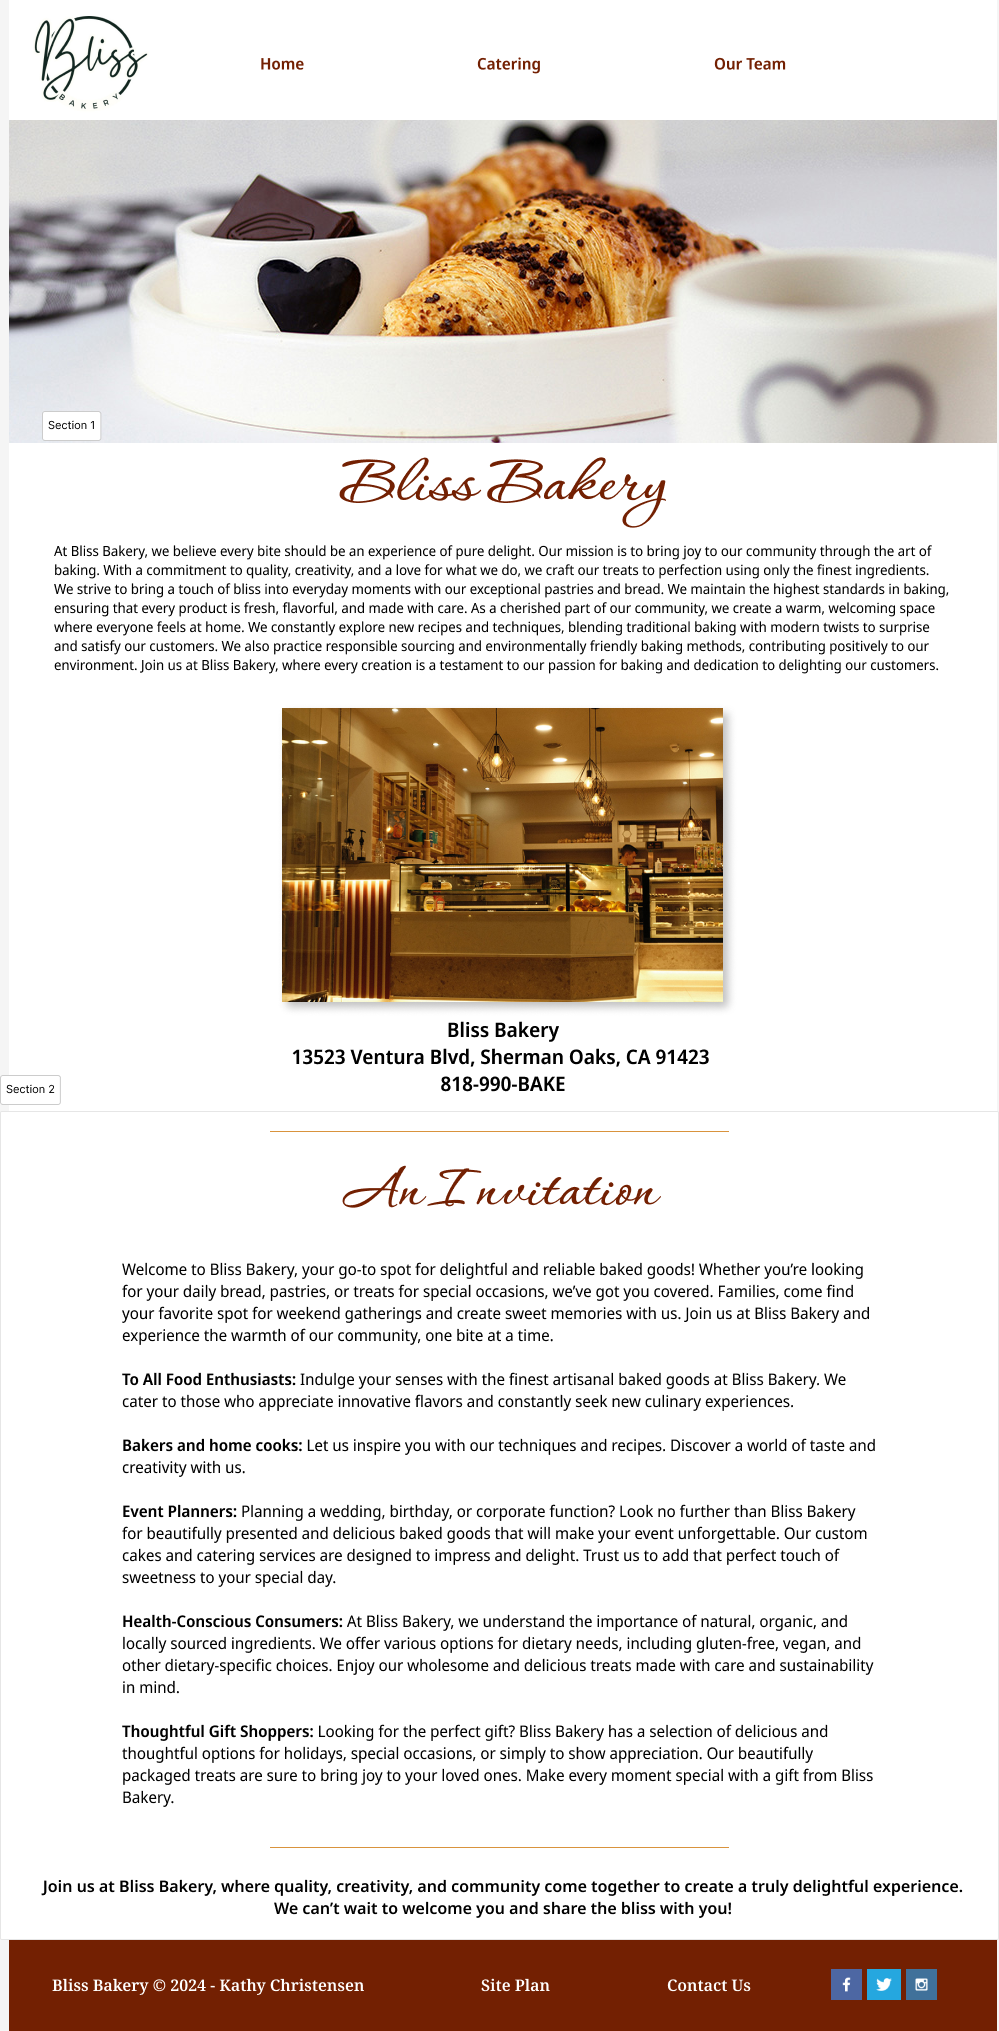
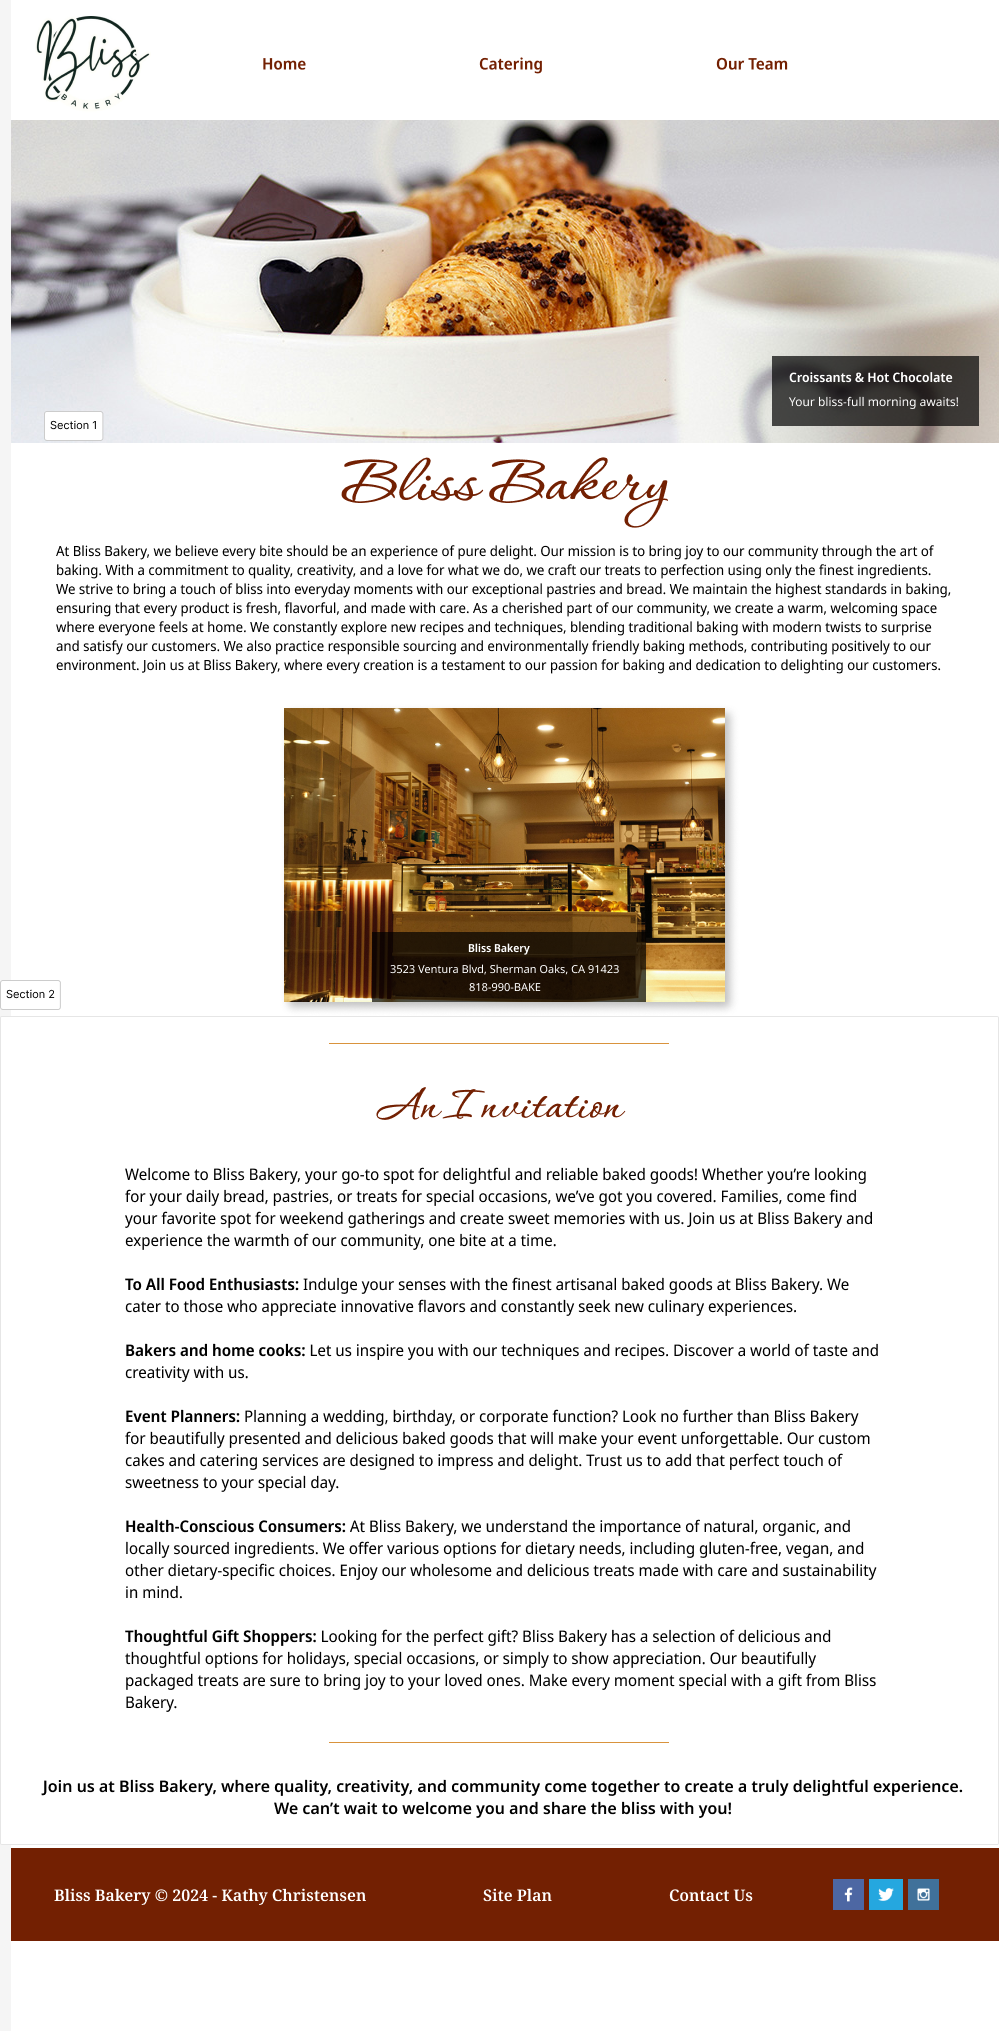
css coding for catering page

diff --git a/bliss/catering.html b/bliss/catering.html
@@ -1,17 +1,17 @@
 <!DOCTYPE html>
-<html>
+<html lang="en">
     <head>
         <meta charset="utf-8">
         <meta http-equiv="X-UA-Compatible" content="IE=edge">
         <title>Bliss Bakery | Catering</title>
         <meta name="viewport" content="width=device-width, initial-scale=1">
-        <link rel="stylesheet" href="styles.style.html">
+        <link rel="stylesheet" href="styles/style.css">
     </head>
     <body>
       <div id="content">
         <header>
             <a id="logo_link" href="index.html">
-                <img class="logo" src="images/bliss.png" alt="Bliss Bakery">
+                <img class="logo" src="images/bliss.jpg" alt="Bliss Bakery">
             </a>
             <nav>
                 <a href="index.html">Home</a>
@@ -29,7 +29,7 @@
         <main>
       
             <section>
-                <h1 id="cater-title">Welcome to Bliss Bakery Catering Services</h1>
+                <h1 class="cater-title">Welcome to Bliss Bakery Catering Services</h1>
                 <div id="cater-msg">
                     <p>At Bliss Bakery, we understand that every event is special and deserves to be remembered for its delightful 
                         moments and exquisite flavors. We are dedicated to making your gatherings genuinely memorable with our 
@@ -43,18 +43,18 @@
             <hr id="cater-line1">
 
             <section>
-                <h3 id="choose">Why choose us?</h3>
+                <h3 class="choose">Why choose us?</h3>
                 <div id="reasons">
                     <ul>
-                        <li><span>Personalized Service:</span> We work closely with you to understand your needs and preferences, ensuring that our 
+                        <li><span class="reason-item">Personalized Service:</span> We work closely with you to understand your needs and preferences, ensuring that our 
                             offerings are perfectly tailored to your event.</li>
-                        <li><span>Diverse Menu:</span> Our extensive menu includes a wide range of savory and sweet treats, from artisan breads and 
+                        <li><span class="reason-item">Diverse Menu:</span> Our extensive menu includes a wide range of savory and sweet treats, from artisan breads and 
                             elegant pastries to custom cakes and dietary-specific options. Whether you’re hosting a brunch, a corporate 
                             event, or a grand celebration, we have something to suit every palate.</li>
-                        <li><span>Attention to Detail:</span> Our skilled bakers and dedicated staff pay meticulous attention to every detail, from 
+                        <li><span class="reason-item">Attention to Detail:</span> Our skilled bakers and dedicated staff pay meticulous attention to every detail, from 
                             the presentation of our baked goods to the packaging and delivery, ensuring a seamless and delightful 
                             experience.</li>
-                        <li><span>Community Focus:</span> As a local bakery, we are proud to be a part of our community and are committed to 
+                        <li><span class="reason-item">Community Focus:</span> As a local bakery, we are proud to be a part of our community and are committed to 
                             supporting local suppliers and sustainable practices.</li>
                     </ul>
                 </div>
@@ -63,17 +63,17 @@
             <hr id="cater-line2">
             
             <section>
-                <h3 id="choose">Our Catering Services</h3>
+                <h3 class="choose">Our Catering Services</h3>
                 <div id="services">
                     <p id="services-msg">Bliss Bakery offers a variety of catering services to meet the needs of any event.</p>
                     <ul>
-                        <li><span>Weddings:</span> Create lasting memories with our custom wedding cakes and elegant dessert spreads that are as 
+                        <li><span class="reason-item">Weddings:</span> Create lasting memories with our custom wedding cakes and elegant dessert spreads that are as 
                             beautiful as they are delicious.</li>
-                        <li><span>Corporate Events:</span> Impress your colleagues and clients with our sophisticated and delectable baked goods, 
+                        <li><span class="reason-item">Corporate Events:</span> Impress your colleagues and clients with our sophisticated and delectable baked goods, 
                             perfect for meetings, conferences, and office celebrations</li>
-                        <li><span>Birthdays & Special Occasions:</span> Celebrate life’s milestones with our personalized cakes, cookies, and treats 
+                        <li><span class="reason-item">Birthdays & Special Occasions:</span> Celebrate life’s milestones with our personalized cakes, cookies, and treats 
                             that add a touch of sweetness to your special day.</li>
-                        <li><span>Holiday Gatherings:</span> Make your holiday gatherings memorable with our seasonal offerings, from festive 
+                        <li><span class="reason-item">Holiday Gatherings:</span> Make your holiday gatherings memorable with our seasonal offerings, from festive 
                             pastries to holiday-themed treats.</li>
                     </ul>
                 </div>
@@ -82,25 +82,20 @@
             <hr id="cater-line3">
             
             <section>
-                <img src="images/catering-table.jpg" alt="Catered table of treats">
-                <div>
-                    <div>
-                        <p id="intouch">
-                           <span>Get in Touch:</span><br>
-                            We invite you to explore our catering menu. Contact us to discuss how we can help make 
-                            your event truly unforgettable. Our team is here to assist you with every aspect of your 
-                            order, ensuring that your Bliss Bakery experience is exceptional.
-                        </p>
-                    </div>
-                    <div><p id="visit"><span>Visit us at:</span><br>
+                <h3 class="choose">Get In Touch:</h3>
+                <div id="cater-wrapper">
+                <img id="cater-img" src="images/catering-table.jpg" alt="Catered table of treats">
+                </div>
+                <div id="intouch">
+                        <p>We invite you to explore our catering menu. Contact us to discuss how we can help make 
+                         your event truly unforgettable. Our team is here to assist you with every aspect of your 
+                         order, ensuring that your Bliss Bakery experience is exceptional.
+                        </p><br>
+                        <p><span class="bakers">Visit us at:</span><br>
                         13523 Ventura Blvd, Sherman Oaks, CA 91423<br>
-                        818-990-BAKE.</p>
-                    </div>
-                    <div>
-                    <p id="thanks">Thank you for considering Bliss Bakery for your catering needs. We look forward 
+                        818-990-BAKE.</p><br>
+                        <p>Thank you for considering Bliss Bakery for your catering needs. We look forward 
                         to being a part of your celebrations and helping you create sweet and cherished moments.</p>    
-                    </div>
-
                 </div>
             </section>
 

diff --git a/bliss/styles/style.css b/bliss/styles/style.css
@@ -30,6 +30,17 @@ header {
     padding: 0;
 }
 
+.cater-title {
+    color:#732002;
+    font-family: 'Corinthia', 'Noto', Arial, Helvetica;
+    font-size: 5.5vw;
+    font-weight: 500;
+    text-align: center;
+    margin: 0;
+    padding: 0;
+    margin-top: 20px;
+}
+
 .logo {
     width: 100px;
 }
@@ -96,6 +107,17 @@ main section {
     padding-right: 60px;
 }
 
+#cater-msg {
+    grid-column: 1/4;
+    grid-row: 1/2;
+    margin-top: 0;
+    padding-top: 0;
+    padding-bottom: 25px;
+    padding-left: 65px;
+    padding-right: 65px;
+    text-align: center;
+}
+
 #shop {
     box-shadow: 5px 5px 10px #6f7364;
     display: block;
@@ -130,20 +152,30 @@ main section {
   /* Bottom center text */
   .text-block2 {
     position: absolute;
-    bottom: 0;
-    margin-left: 38.3%;
     background-color: rgba(0, 0, 0, .5);
     color: white;
     padding-left: 20px;
     padding-right: 20px;
-    font-size: 11px;
+    font-size: 13px;
     text-align: center;
-    box-sizing: border-box;
+    top: 85%;
+    left: 50%;
+    transform: translate(-50%, -50%);
     margin-top: 0;
   }
 
 
 #invite {
+    color:#732002;
+    font-family: 'Corinthia', 'Noto', Arial, Helvetica;
+    font-size: 5vw;
+    font-weight: 500;
+    text-align: center;
+    margin: 0;
+    padding-top: 15px;
+}
+
+.choose {
     color:#732002;
     font-family: 'Corinthia', 'Noto', Arial, Helvetica;
     font-size: 5vw;
@@ -159,6 +191,18 @@ main section {
     padding-bottom: 10px;
 }
 
+#reasons {
+    padding-left: 120px;
+    padding-right: 120px;
+    padding-bottom: 10px;
+}
+
+#services {
+    padding-left: 120px;
+    padding-right: 120px;
+    padding-bottom: 10px;
+}
+
 #join {
     padding-left: 60px;
     padding-right: 60px;
@@ -170,6 +214,33 @@ main section {
 
 .bakers {
     font-weight: 550;
+}
+
+.reason-item {
+    font-weight: 550;
+}
+
+#cater-wrapper {
+    display: inline-block;
+    vertical-align: middle;
+    margin-left: 100px;
+    margin-top: 35px;
+}
+
+#cater-img {
+    max-width: 276px;
+    max-height: 414px;
+}
+
+#intouch {
+    display: inline-block;
+    max-width: 445px;
+    text-align: center;
+    padding-left: 65px;
+    padding-right: 65px;
+    font-size: 17px;
+    vertical-align: middle;
+    margin-top: 10px;
 }
 
 hr {

diff --git a/bliss/ourteam.html b/bliss/ourteam.html
@@ -1,17 +1,17 @@
 <!DOCTYPE html>
-<html>
+<html lang="en">
     <head>
         <meta charset="utf-8">
         <meta http-equiv="X-UA-Compatible" content="IE=edge">
         <title>Bliss Bakery | Our Team</title>
         <meta name="viewport" content="width=device-width, initial-scale=1">
-        <link rel="stylesheet" href="styles.style.html">
+        <link rel="stylesheet" href="styles/style.css">
     </head>
     <body>
       <div id="content">
         <header>
             <a id="logo_link" href="index.html">
-                <img class="logo" src="images/bliss.png" alt="Bliss Bakery">
+                <img class="logo" src="images/bliss.jpg" alt="Bliss Bakery">
             </a>
             <nav>
                 <a href="index.html">Home</a>
